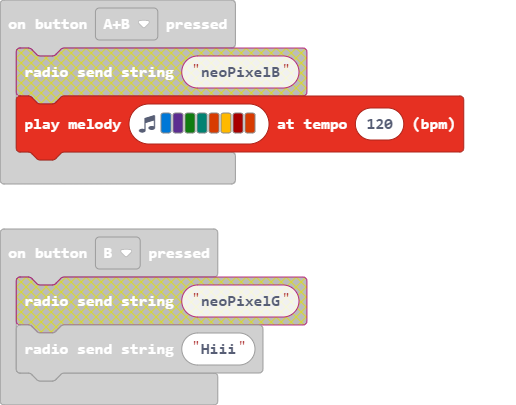
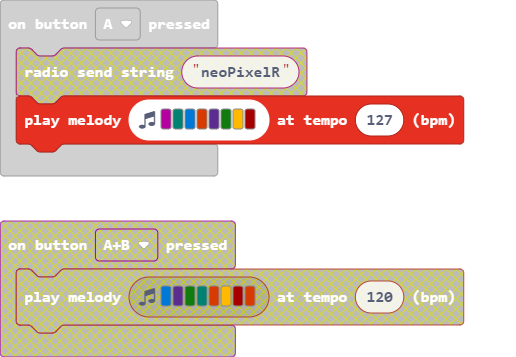
Update main.blocks, main.ts

diff --git a/main.ts b/main.ts
@@ -1,8 +1,5 @@
 input.onButtonPressed(Button.A, function () {
-    radio.sendString("neoPixelR")
-})
-input.onButtonPressed(Button.AB, function () {
-    music.playMelody("E D G F B A C5 B ", 120)
+    music.playMelody("C F E B D G A C5 ", 127)
 })
 input.onButtonPressed(Button.B, function () {
     radio.sendString("Hiii")
